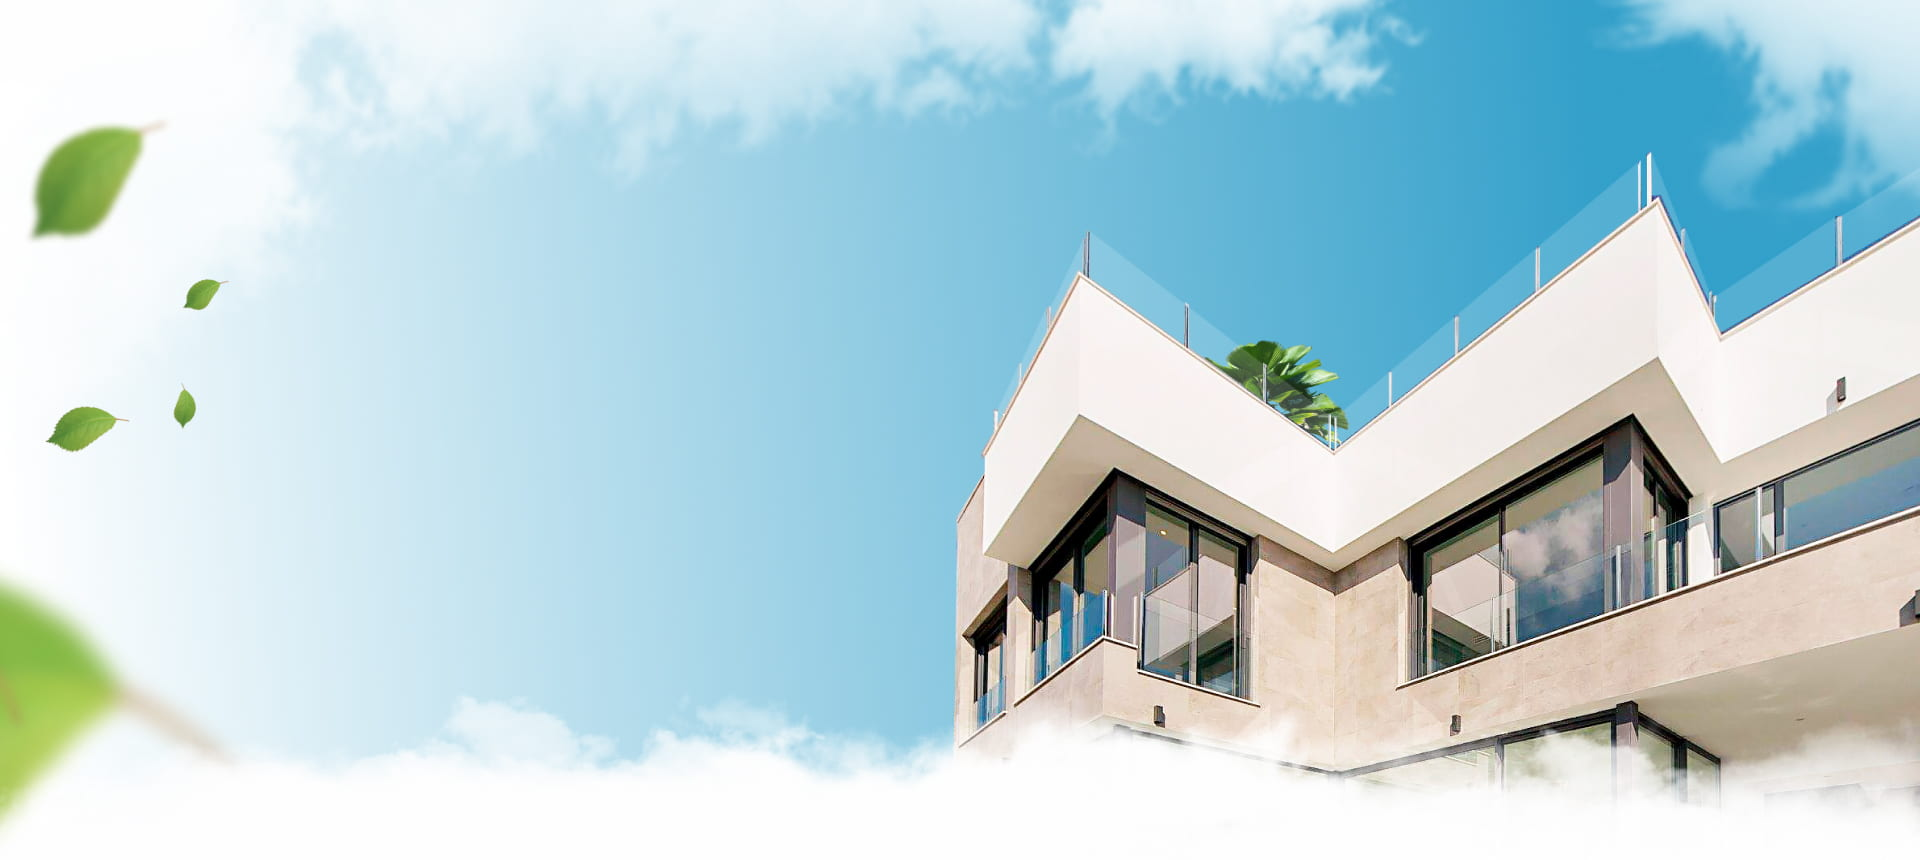
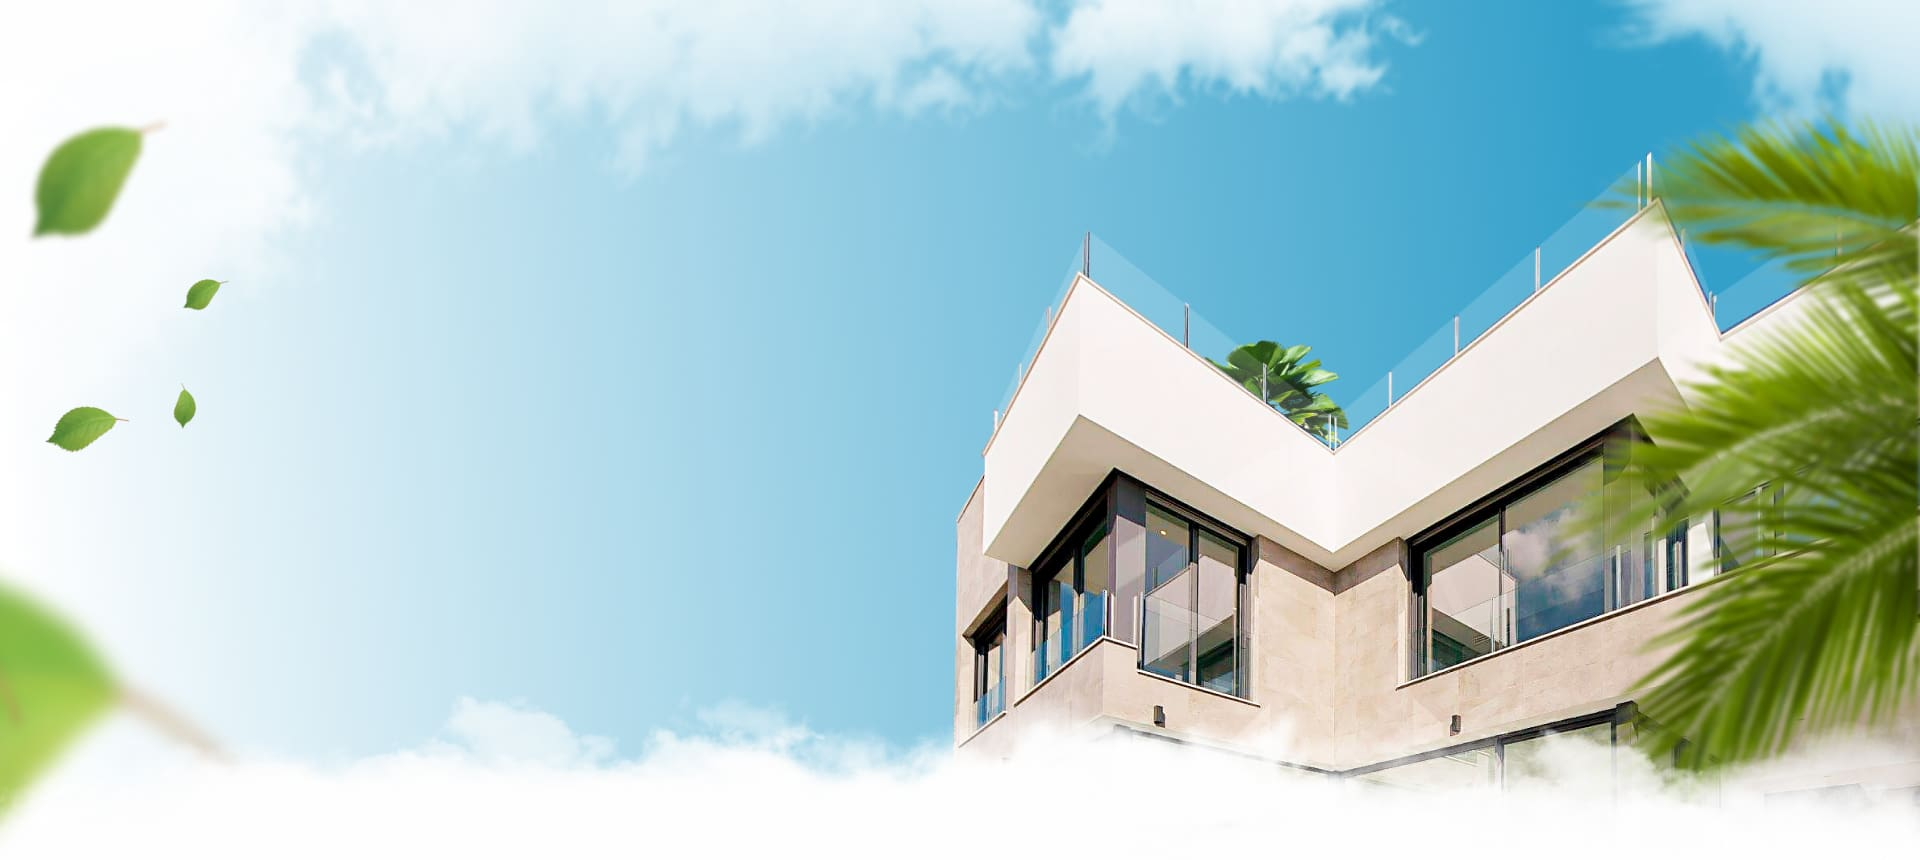
change images, animations

Changed region(s): [[0.8125, 0.1209, 1.0, 0.907]]

diff --git a/src/components/blocks/home-promo/home-promo.tsx b/src/components/blocks/home-promo/home-promo.tsx
@@ -4,11 +4,12 @@ import { Container } from "@/components/ui/container";
 import cn from "clsx";
 import { TiledItems, type TiledItemProps } from "@/components/ui/tiled-items";
 import styles from "./home-promo.module.scss";
+import Image, { type ImageProps } from "next/image";
 
 interface HomePromoProps {
   title: string;
   text: string;
-  image: any;
+  image: ImageProps;
   services: TiledItemProps[];
   button?: ButtonBase;
 }
@@ -25,11 +26,11 @@ export const HomePromo: FC<HomePromoProps> = ({
       {image?.src && (
         <div className={styles.imageWrapper}>
           <div className={styles.imageInner}>
-            <img
+            <Image
               className={styles.image}
-              src={"/images/hero/hero-min.jpg"}
-              width={"100%"}
-              height={"100%"}
+              src={image.src}
+              layout={"fill"}
+              objectFit={"cover"}
               alt={image?.alt ?? ""}
             />
             <img
@@ -49,13 +50,6 @@ export const HomePromo: FC<HomePromoProps> = ({
             <img
               className={cn(styles.imageCloud, styles.cloudThree)}
               src={"/images/hero/cloud/cloud-04-min.png"}
-              width={"100%"}
-              height={"100%"}
-              alt={""}
-            />
-            <img
-              className={styles.imageBranch}
-              src={"/images/hero/palm-branch-min.png"}
               width={"100%"}
               height={"100%"}
               alt={""}

diff --git a/src/components/blocks/home-promo/home-promo.module.scss b/src/components/blocks/home-promo/home-promo.module.scss
@@ -22,16 +22,18 @@
 }
 
 .image {
-  object-fit: cover;
+  // object-fit: cover;
   animation: show ease-in 3s;
 }
 
 @keyframes show {
   0% {
     opacity: 0;
+    filter: sepia(.5);
   }
   100% {
     opacity: 1;
+    filter: sepia(0);
   }
 }
 
@@ -96,32 +98,6 @@
   }
   100% {
     transform: translate3d(0%, 0, 0);
-  }
-}
-
-
-.imageBranch {
-  position: absolute;
-  top: 130px;
-  right: -20px;
-  width: auto;
-  height: 560px;
-  object-fit: contain;
-  // border: 2px solid yellow;
-  @include noselect;
-  animation: branch_motion ease-in 30s infinite;
-  transform-origin: center;
-}
-
-@keyframes branch_motion {
-  0% {
-    transform: rotate3d(0, 0, -10, 5deg) translate3d(0, 0, 0);
-  }
-  50% {
-    transform: rotate3d(0, 0, 5, 10deg) translate3d(10px, 0, 0);
-  }
-  100% {
-    transform: rotate3d(0, 0, -10, 5deg) translate3d(0, 0, 0);
   }
 }
 

diff --git a/src/data/pages/home.ts b/src/data/pages/home.ts
@@ -21,7 +21,7 @@ export const pageHome = {
         title: "We will find your dream home!",
         text: "Our real estate agency Violet Real Estate will help you make your dream of a perfect home come true!",
         image: {
-          src: "/images/home/hero-house-min.jpg",
+          src: "/images/hero/hero-min.jpg",
           alt: "We will find your dream home!",
           height: 1920,
           width: 1080,
